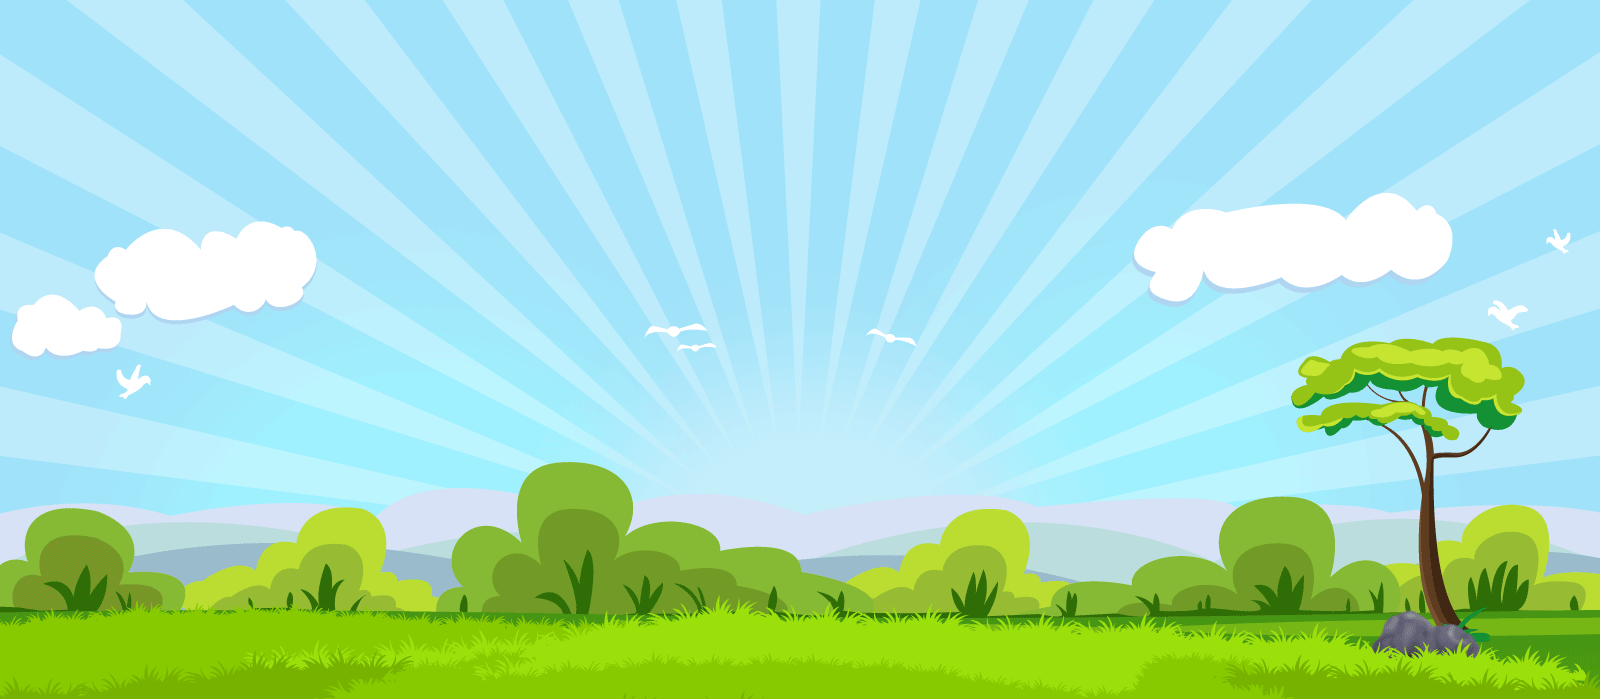
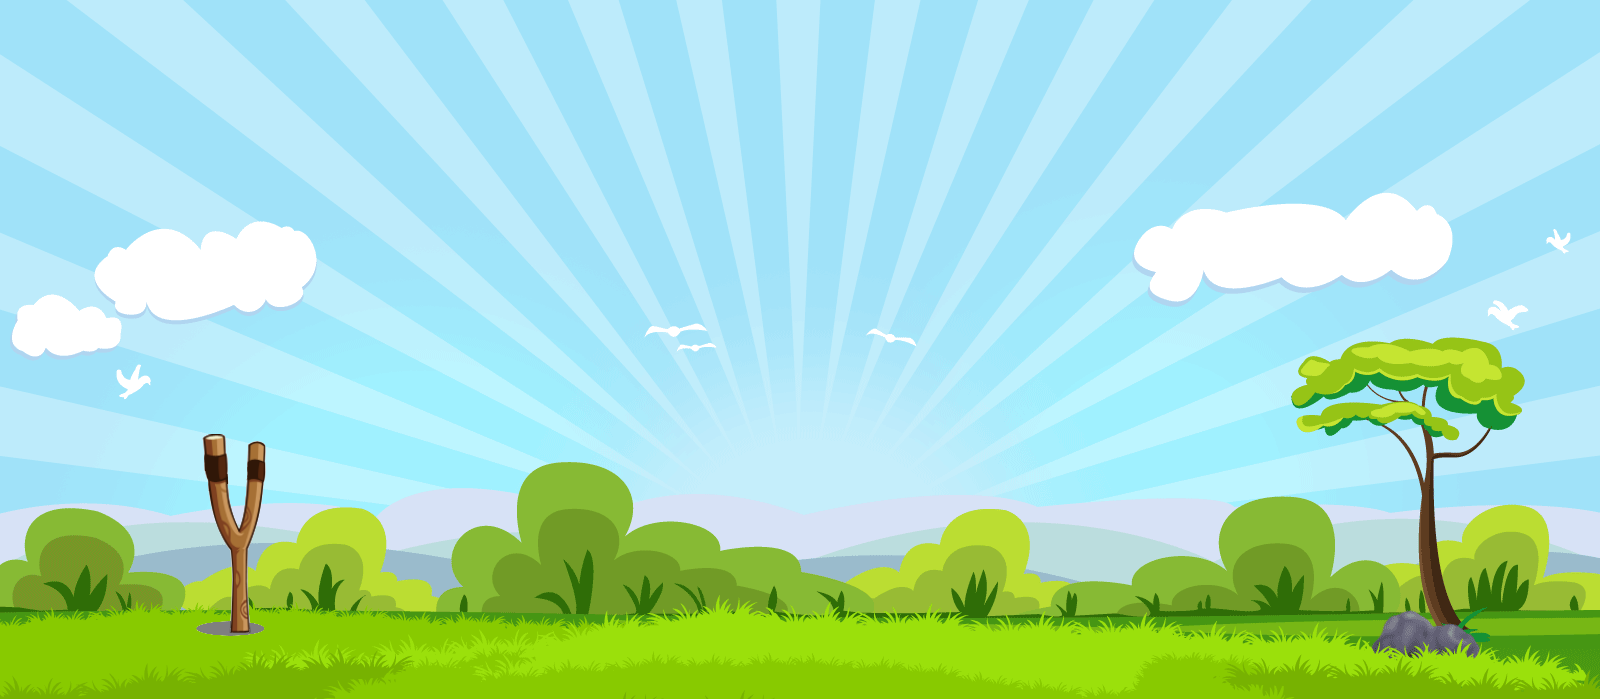
add slingshot photo, optimize bird's position and hit box

Changed region(s): [[0.125, 0.6009, 0.1875, 0.9313]]

diff --git a/Final/Processing/final/sketch_231211b/sketch_231211b.js b/Final/Processing/final/sketch_231211b/sketch_231211b.js
@@ -29,7 +29,7 @@ let curStage = 1; // Default stage 1
 let gameOverBG;
 
 // Object
-let ground, slingshot, world, engine, mConstraint;
+let ground, slingshot, slingshot_copy, world, engine, mConstraint;
 let collideDetector;
 
 let bird;
@@ -55,7 +55,7 @@ let worldObjPairs = [];
 let RedBirdImg;
 let pigImg = [];
 let boxImg = [];
-let bkgImg;
+let bkgImg, bkgImg1, bkgImg2;
 
 // Mouse
 let isMouseOnBird = false;
@@ -91,6 +91,8 @@ function preload() {
   startMenuImg = loadImage('./images/startmenu.jpg');
   winImg = loadImage('./images/win.jpg');
   bkgImg = loadImage('./images/background-2.png');
+  bkgImg1 = loadImage('./images/background-21.png');
+  bkgImg2 = loadImage('./images/background-22.png');
   groundImg = loadImage('./images/ground.jpg');
   
   font = loadFont('./assets/angrybirds-regular.ttf');
@@ -184,7 +186,8 @@ function setup() {
   }
   
   // Slingshot
-  slingshot = new SlingShot(width * SLING_XPOS, height * SLING_YPOS, bird.body);
+  slingshot = new SlingShot(width * (SLING_XPOS - 0.02), height * (SLING_YPOS + 0.02), bird.body);
+  slingshot_copy = new SlingShot(width * (SLING_XPOS + 0.01), height * (SLING_YPOS + 0.02), bird.body);
 
   // Collision
   worldObj.push(ground);
@@ -228,9 +231,10 @@ function reset(){
   
   worldObj = [];
   // Add Bird
-  bird = new RedBird(300, 300, 30, RedBirdImg);
+  bird = new RedBird(220, 490, 30, RedBirdImg);
   worldObj[0] = bird;
   slingshot.attach(bird.body);
+  slingshot_copy.attach(bird.body);
   
   // Add Pig
   pigs = [];
@@ -278,12 +282,12 @@ function keyPressed() {
       if(!slingshot.isAttach() && bird_left > 0){
         // slingshot is now empty
         World.remove(world, bird.body);
-        bird = new RedBird(300, 300, 30, RedBirdImg);
-        
+        bird = new RedBird(220, 490, 30, RedBirdImg);
         // Regenerate pairs for collision detection since the bird is a new object
         worldObj[0] = bird;
         worldObjPairs = generatePairs(worldObj);
         slingshot.attach(bird.body);
+        slingshot_copy.attach(bird.body);
        
       }
     }
@@ -355,6 +359,7 @@ function mouseReleased() {
       let newPos = mapPosition(pos);
       bird_left -= 1;
       slingshot.fly();
+      slingshot_copy.fly();
       oscPort.send(createPacket("/slingshot", 1, newPos.x, newPos.y, 0, 0));
       isMouseOnBird = false;
       isBirdFlying = true;
@@ -400,6 +405,7 @@ function draw() {
     }
     bird.show();
     slingshot.show();
+    slingshot_copy.show();
     detectCollision();
     
     // Get Bird Location

diff --git a/Final/Processing/final/sketch_231211b/bird.js b/Final/Processing/final/sketch_231211b/bird.js
@@ -18,7 +18,7 @@ class RedBird {
     translate(pos.x, pos.y);
     rotate(angle);
     imageMode(CENTER);
-    image(RedBirdImg, 0, 0, this.r * 2.4, this.r * 2.4);
+    image(RedBirdImg, 0, 0, this.r * 2, this.r * 2);
     pop();
   }
 }

diff --git a/Final/Processing/final/sketch_231211b/slingshot.js b/Final/Processing/final/sketch_231211b/slingshot.js
@@ -6,7 +6,7 @@ class SlingShot {
         y: y
       },
       bodyB: body,
-      stiffness: 0.01,
+      stiffness: 0.007,
       length: 30
     };
     this.sling = Constraint.create(options);
